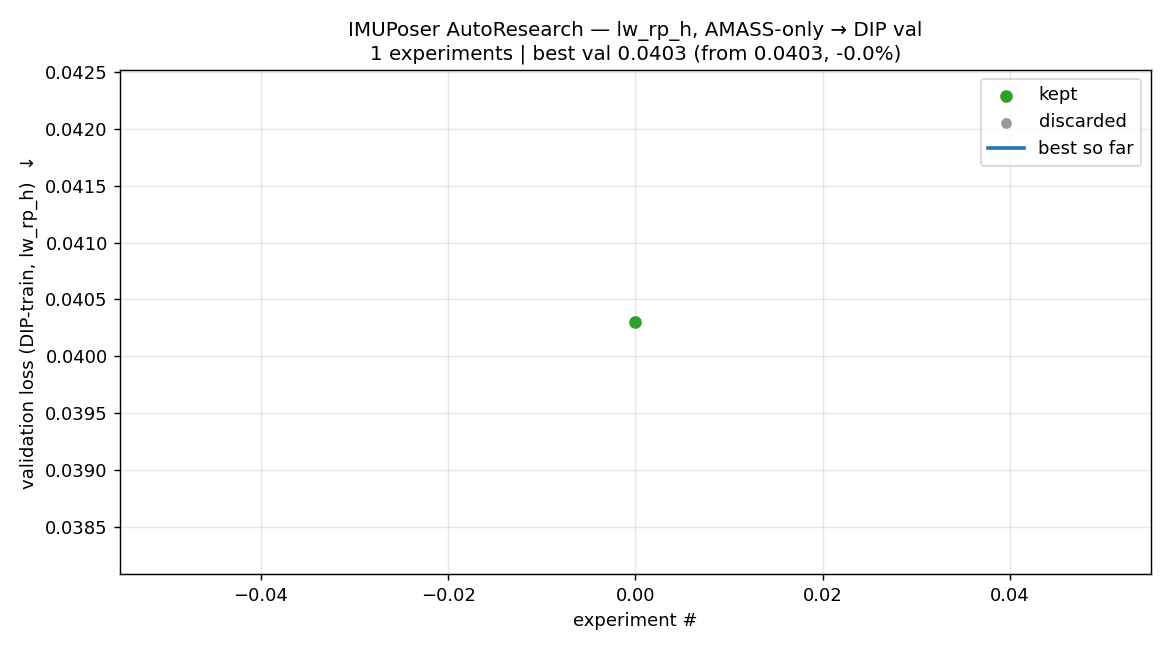
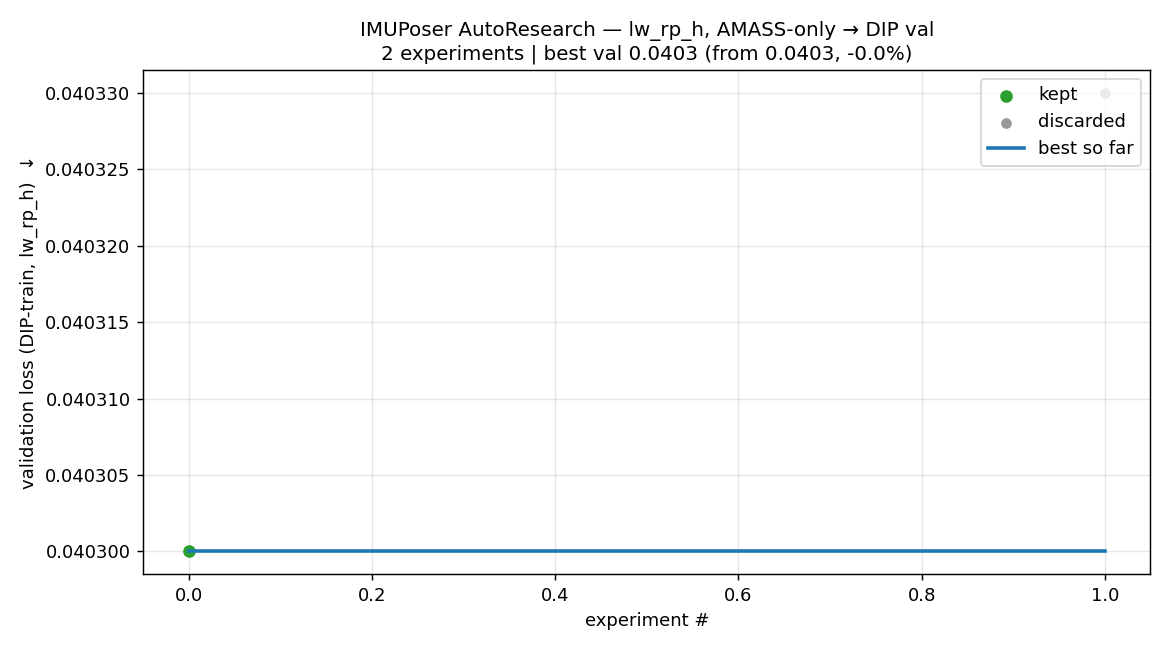
ar exp2: GlobalPose-style calibration-rotation augmentation
- per-sensor mounting/calibration rotation error on orientation (AUG_CALIB_RAD),
  the dominant real-IMU imperfection our perfect FK orientation lacks
- exp1 logged (domain-rand noise ~= baseline, discarded)
- ADDITIONAL_EXPERIMENTS.md: GlobalPose realistic IMU synthesis writeup
- program.md: commit-per-experiment workflow

diff --git a/src/imuposer/datasets/globalModelDataset.py b/src/imuposer/datasets/globalModelDataset.py
@@ -32,6 +32,11 @@ class GlobalModelDataset(Dataset):
         self.augment = False
         self.aug_acc_std = float(os.environ.get("AUG_ACC_STD", "0"))
         self.aug_ori_std = float(os.environ.get("AUG_ORI_STD", "0"))
+        # GlobalPose-style per-sensor calibration / mounting rotation error (radians,
+        # per-axis std; constant over a window). Real IMUs are mis-mounted/mis-calibrated
+        # vs the body segment, which our perfect FK orientation lacks. GlobalPose uses
+        # ~0.1*sqrt(pi/8) ≈ 0.063 rad (~3.6 deg/axis).
+        self.aug_calib = float(os.environ.get("AUG_CALIB_RAD", "0"))
         self.data = self.load_data()
 
     def load_data(self):
@@ -100,6 +105,13 @@ class GlobalModelDataset(Dataset):
 
         # domain randomization: perturb the PRESENT sensors only (absent stay zero)
         if self.augment:
+            # GlobalPose-style calibration/mounting error: rotate each present sensor's
+            # orientation by a random rotation, constant over the window (per-sensor).
+            if self.aug_calib > 0:
+                for c in combo:
+                    aa = torch.randn(3) * self.aug_calib                       # axis-angle (rad)
+                    Rc = math.axis_angle_to_rotation_matrix(aa.unsqueeze(0))[0]  # 3x3
+                    _combo_ori[:, c] = torch.matmul(Rc, _combo_ori[:, c])      # (W,3,3)
             if self.aug_acc_std > 0:
                 _combo_acc[:, combo] += torch.randn_like(_combo_acc[:, combo]) * self.aug_acc_std
             if self.aug_ori_std > 0:

diff --git a/ADDITIONAL_EXPERIMENTS.md b/ADDITIONAL_EXPERIMENTS.md
@@ -92,6 +92,29 @@ more epochs, and specialization all failed to close.
 **Compare:** retrain the generalist on physics-simulated IMU, eval per-combo DIP. If DIP drops while
 the synthetic val barely moves, that's direct evidence the bottleneck was IMU *realism*, not motion data.
 
+### GlobalPose-style realistic IMU synthesis (orientation is the key)
+**Why:** Our baseline shows the real-DIP val is *lowest at epoch 0* and rises every epoch — the
+model overfits to our **perfect FK orientation**, which real IMUs never have. GlobalPose
+(Xinyu Yi, `imu_synthesis.py`) makes synthetic IMU realistic by **not** using ground-truth
+orientation; instead it:
+- **Calibration / mounting rotation error** per sensor: `~ randn(N,6,3) * 0.1*sqrt(pi/8)` (≈0.063
+  rad ≈ 3.6°/axis), constant per sequence — the dominant real-IMU orientation imperfection.
+- **Orientation via noisy gyro integration** (fast) or a full **ESKF** (`an=5e-2, wn=5e-3,
+  aw=1e-4, ww=1e-5, mn=5e-3`) fusing noisy accel/gyro/mag → orientation that *drifts* like a real IMU.
+- **Accel** = kinematic accel + gravity `(0,-9.8,0)` + noise (`std 5e-2`) + small random walk.
+- A **T-pose calibration** pipeline (sensor↔body `RBS`) matching the real DIP calibration.
+6 IMUs, 60 fps.
+
+**Experiments (tiers):**
+- *Train-time aug (in progress):* per-sensor **calibration rotation error** on orientation
+  (`AUG_CALIB_RAD`, exp2), then add orientation drift + accel gravity/noise.
+- *Full re-synthesis:* regenerate the dataset GlobalPose-style — gyro-integrate noisy angular
+  velocity (derive ω from the pose sequence) for a drifting orientation, add gravity+noise to accel,
+  inject calibration error, run the T-pose calibration. This is the most faithful "valid IMU" and
+  the most likely big win, but it's a synthesis-stage rewrite (cf. `scripts/1. Preprocessing`).
+
+Ref: https://github.com/Xinyu-Yi/GlobalPose (built on TransPose/PIP/PNP).
+
 ## Parked (lower priority)
 
 ### Learning curve on the original data (data-saturation check)

diff --git a/autoresearch/program.md b/autoresearch/program.md
@@ -83,7 +83,11 @@ Run from the repo root. Target `lw_rp_h` via `TRAIN_COMBO=lw_rp_h`; train to con
 4. **Read the val metric** (best val loss on the held-out DIP slice for this run).
 5. **Decide on VAL:** keep (commit) if its best-val beats the current best in `results.md`,
    else revert `train`-stack changes. **Do not run the test evaluator to decide.**
-6. **Log** in `results.md`: hypothesis, one-line diff summary, **best val** metric, keep/discard, and *why*.
+6. **Log + version-control:** `git commit` the experiment's code on the `autoresearch` branch
+   (message `ar exp N: <idea> — val=X (kept/discarded)`), append the result **and the commit
+   hash** to `results.jsonl`, regenerate `progress.png`, and `git push`. Every experiment is a
+   recoverable commit linked to its graph point. (Separate branches only if running experiments
+   in parallel on different GPUs.)
 7. Repeat — change roughly one thing at a time.
 
 ---
